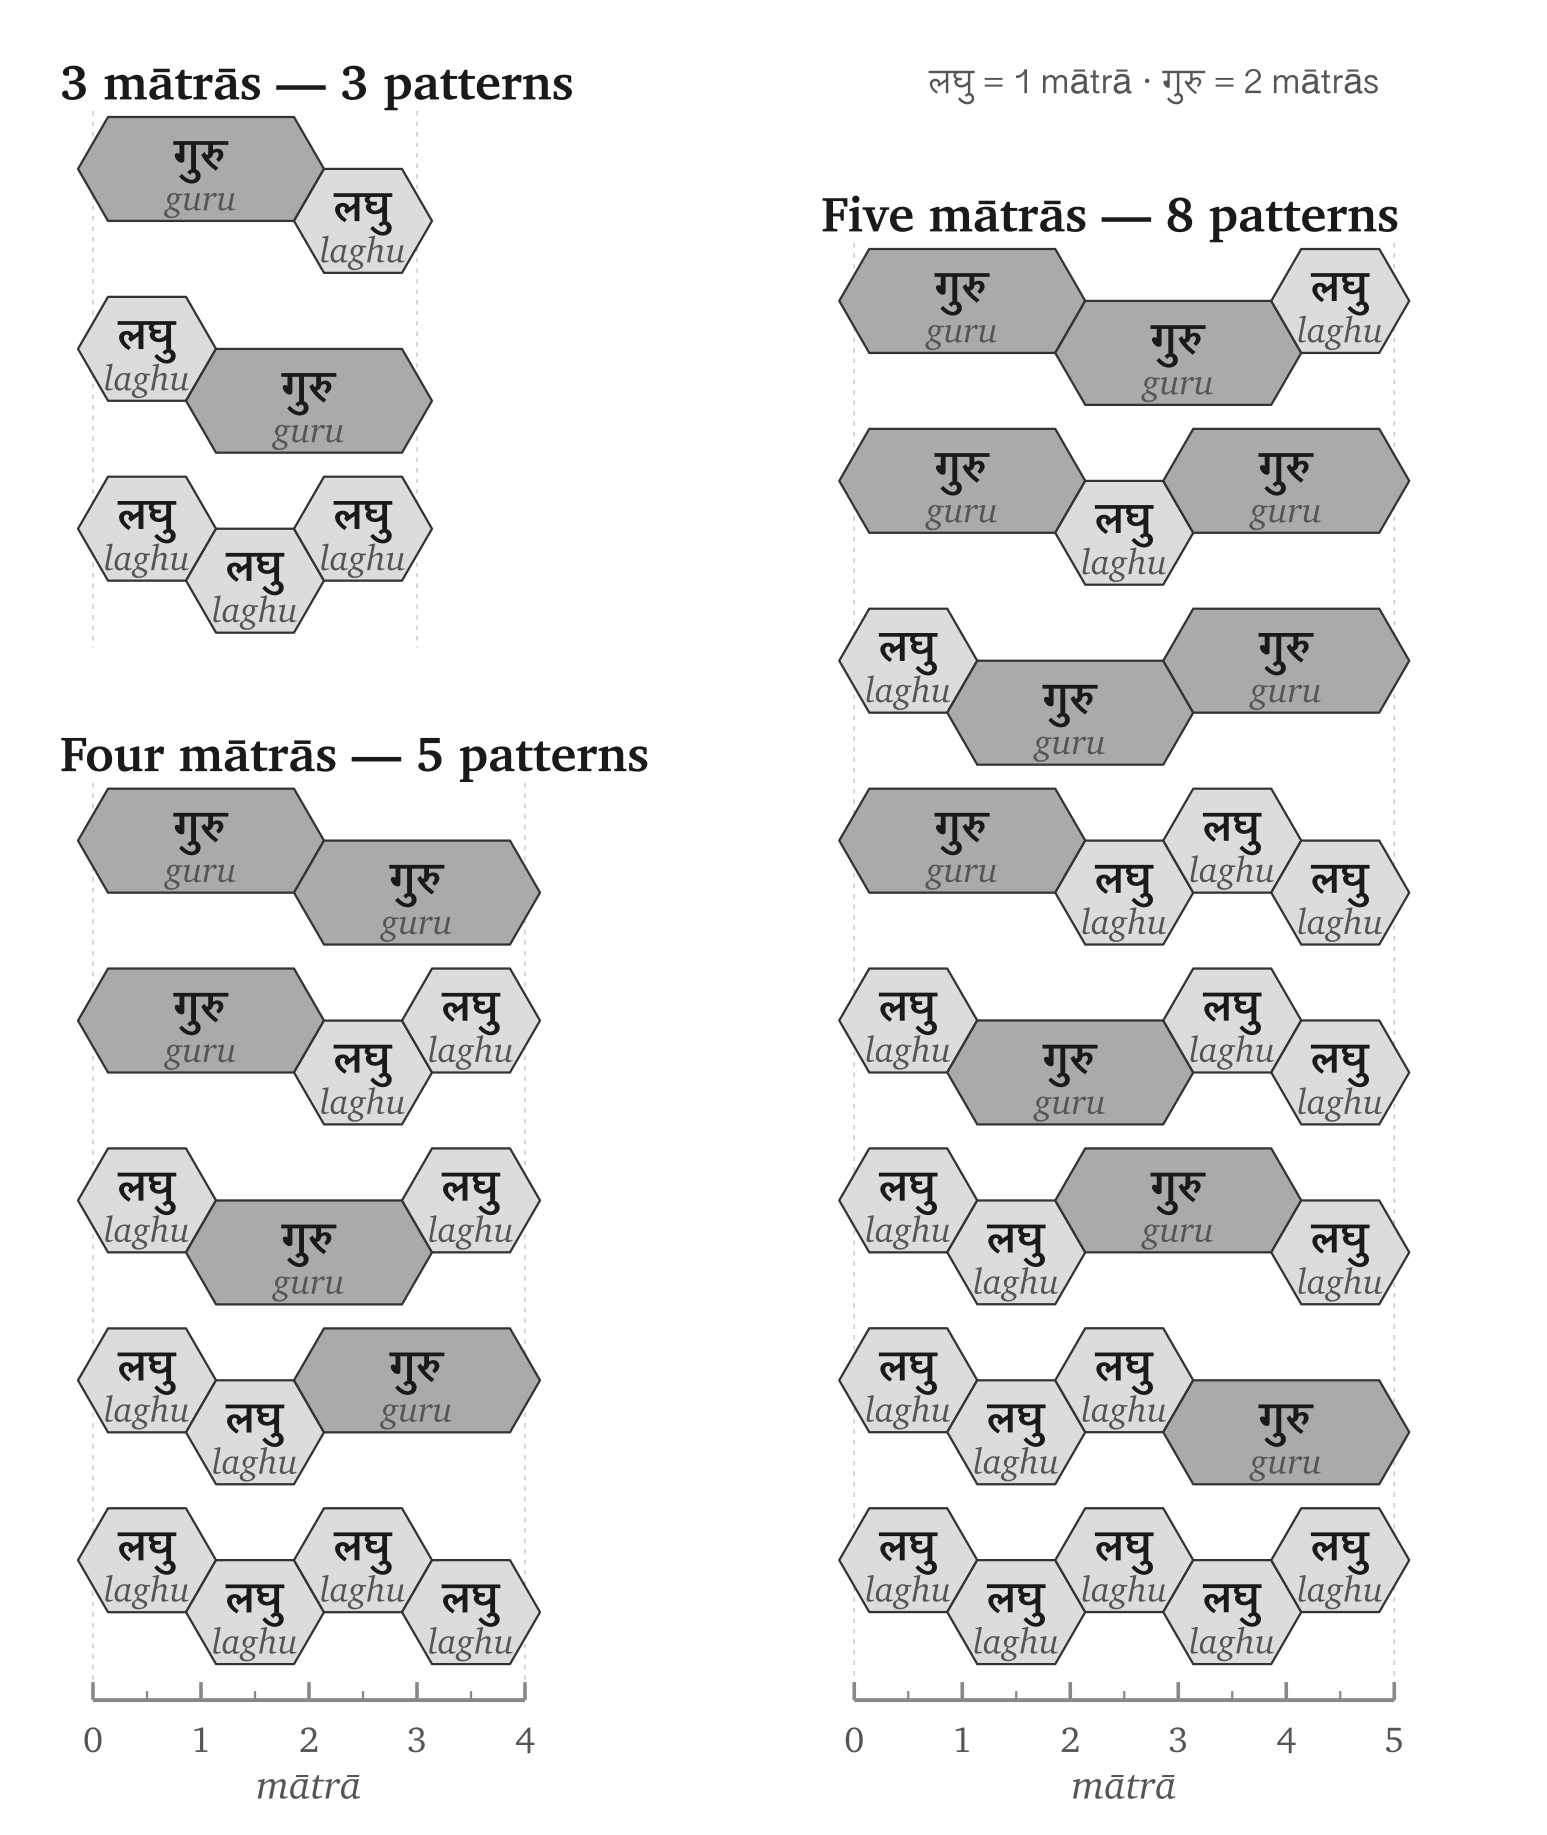
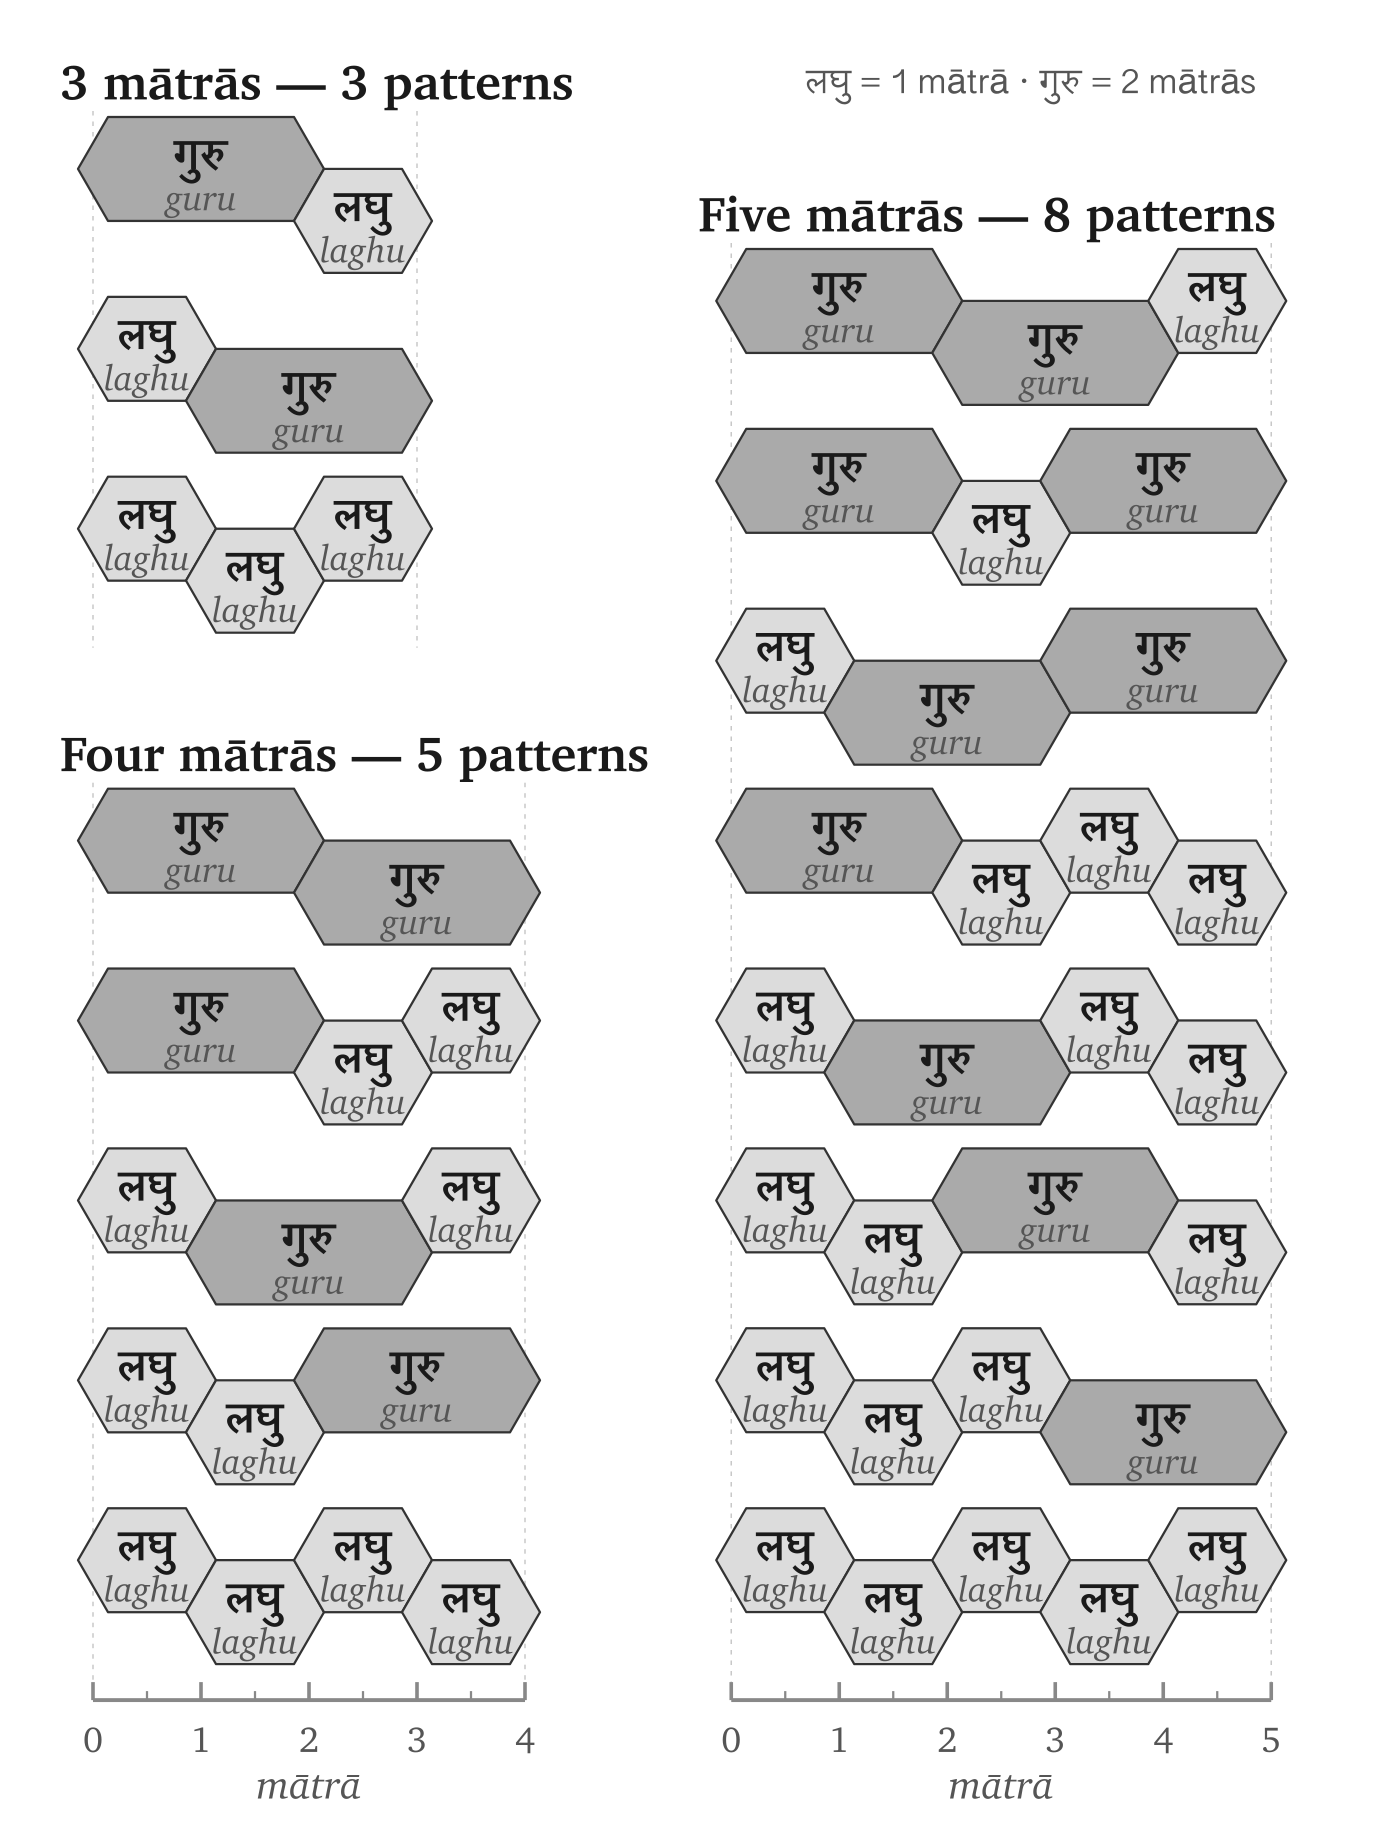
Ch14 mātrā tiles combined: effective width 4.5in at 6in tall (shift col2, trim right)
Height stays the font-tuned 6in; column 2 (5-mātrā) shifts left 0.4in and the right edge trims 0.16in (quoted at the 6in scale, ~204 px/in → 82px + 33px), bringing the canvas to 916x1223px = 4.49in wide at 6in tall. Fonts unchanged.

diff --git a/writing/books/atomicSanskrit/figures/calibration/matra_tiles_combined.py b/writing/books/atomicSanskrit/figures/calibration/matra_tiles_combined.py
@@ -33,6 +33,9 @@ from matra_tiles import (  # noqa: E402
 MARGIN = 12          # outer canvas margin
 COL_GAP = 8          # horizontal gap between the two columns
 STACK_GAP = 12       # vertical gap between the 3- and 4-mātrā panels
+REF_H_IN = 6.0       # font-tuned print height; sets the px-per-inch scale
+COL2_SHIFT_IN = 0.4  # move column 2 (5-mātrā) left by this much (at REF_H_IN scale)
+RIGHT_TRIM_IN = 0.16 # trim the right edge by this much → effective width ~4.5in
 
 
 def group(body: str, dx: float, dy: float) -> str:
@@ -47,11 +50,14 @@ def main() -> None:
 
     col_w = max(w3, w4, w5)
     col1_x = MARGIN
-    col2_x = MARGIN + col_w + COL_GAP
-
     col1_h = h3 + STACK_GAP + h4          # taller than h5
-    canvas_w = col2_x + col_w + MARGIN
     canvas_h = MARGIN + col1_h + MARGIN
+
+    # The figure prints at REF_H_IN tall (height fixed); the column-2 left-shift
+    # and right-edge trim below bring the effective width to ~4.5 in.
+    px_per_in = canvas_h / REF_H_IN
+    col2_x = MARGIN + col_w + COL_GAP - round(COL2_SHIFT_IN * px_per_in)
+    canvas_w = (col2_x + col_w + MARGIN) - round(RIGHT_TRIM_IN * px_per_in)
 
     y3 = MARGIN
     y4 = MARGIN + h3 + STACK_GAP
@@ -78,8 +84,8 @@ def main() -> None:
     )
     out = BUILD_DIR / "matra_tiles_combined.svg"
     out.write_text(doc, encoding="utf-8")
-    print(f"Wrote {out.relative_to(REPO_ROOT)}  ({canvas_w:.0f}x{canvas_h:.0f}; "
-          f"4- & 5-mātrā rulers aligned at y={y4 + h4:.0f})")
+    print(f"Wrote {out.relative_to(REPO_ROOT)}  ({canvas_w:.0f}x{canvas_h:.0f}px; "
+          f"at {REF_H_IN:.0f}in tall = {canvas_w * REF_H_IN / canvas_h:.2f}in wide)")
 
 
 if __name__ == "__main__":
